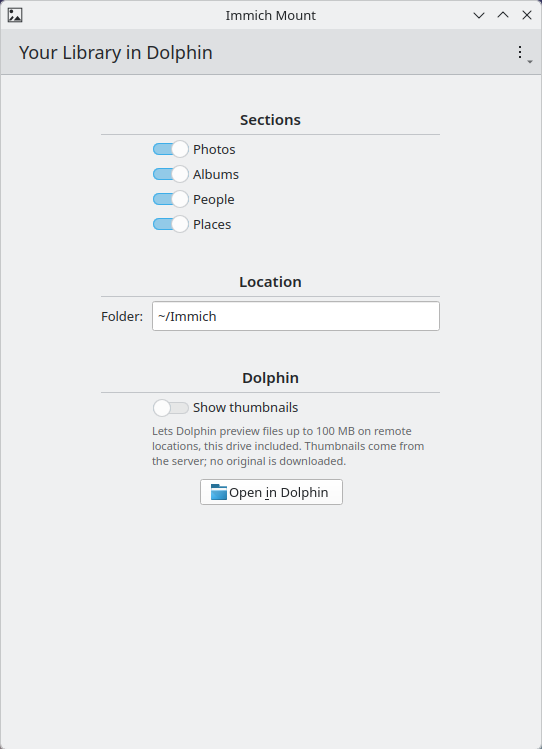
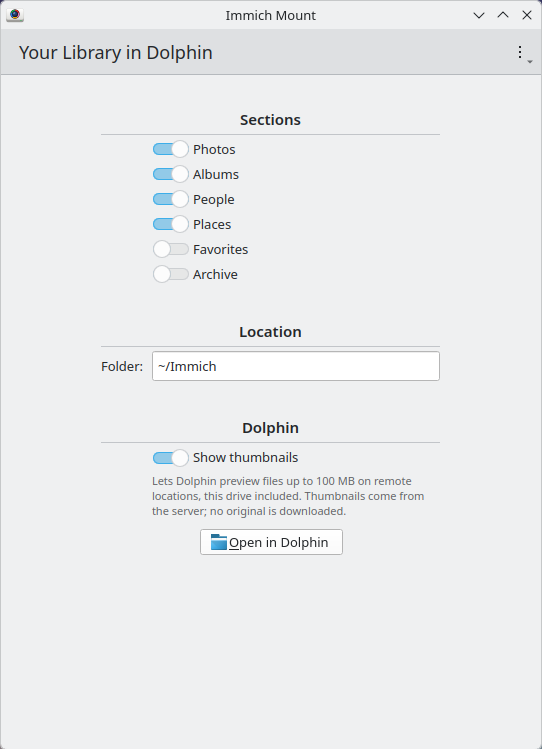
docs: the Linux screenshots retaken on 2.21.0, and the tray's menu among them
Files, Dolphin and both apps as 2.21.0 has them: the drive named Immich Mount in the sidebar and in Places, the
Upload folder, the status page's Unmount, the setup's Favorites and Archive, the preferences' Drive group, and the
tray's menu in GNOME's top bar, which the README and the download page now show. Taken in the lab VMs against the
seeded server, through each app's own first run.

The lab learned on the way: oidc.sh configures Immich from inside its container, so it works in NAT mode; act.py
presses only what can be pressed, as GTK's labels carry actions too; and the desktop VM skill gives each picture's
window placement and box, and the first-run procedure.

diff --git a/site/index.html b/site/index.html
@@ -74,12 +74,13 @@
     </section>
 
     <div class="gallery">
-      <figure class="shot"><img src="screenshots/files-root.png" alt="Immich in the Files sidebar, with Albums, People, Photos and Places" loading="lazy"></figure>
+      <figure class="shot"><img src="screenshots/files-root.png" alt="Immich Mount in the Files sidebar, with Albums, People, Photos, Places and Upload" loading="lazy"></figure>
       <figure class="shot"><img src="screenshots/files-places.png" alt="A city under Places, with photos named by when they were taken" loading="lazy"></figure>
-      <figure class="shot"><img src="screenshots/dolphin-album.png" alt="An Immich album in Dolphin, with thumbnails from the server and Immich in Places" loading="lazy"></figure>
+      <figure class="shot"><img src="screenshots/dolphin-album.png" alt="An Immich album in Dolphin, with thumbnails from the server and Immich Mount in Places" loading="lazy"></figure>
       <figure class="shot"><img src="screenshots/app-sign-in.png" alt="Sign-in methods the server offers: single sign-on, email and password, API key" loading="lazy"></figure>
       <figure class="shot"><img src="screenshots/app-status.png" alt="The app's status page: the library is in Files" loading="lazy"></figure>
       <figure class="shot"><img src="screenshots/kde-status.png" alt="The KDE app's status page: the library is in Dolphin" loading="lazy"></figure>
+      <figure class="shot"><img src="screenshots/gnome-tray.png" alt="The tray icon's menu in GNOME's top bar: connected to the server, its version and the account, then Open in Files and Open Immich Mount" loading="lazy"></figure>
     </div>
 
     <section>

diff --git a/lab/plasma-vm/act.py b/lab/plasma-vm/act.py
@@ -86,12 +86,25 @@ def found(app_name, name):
     return node
 
 
-def has_actions(node):
+PRESSES = ("Press", "Toggle", "press", "toggle", "click")
+
+
+def action_names(node):
     try:
         action = node.get_action_iface()
-        return action is not None and action.get_n_actions() > 0
+        if action is None:
+            return []
+        with warnings.catch_warnings():
+            warnings.simplefilter("ignore", DeprecationWarning)
+            return [Atspi.Action.get_action_name(action, index) for index in range(action.get_n_actions())]
     except GLib.Error:
-        return False
+        return []
+
+
+def has_actions(node):
+    """Whether it can be pressed: GTK's labels have actions too (copy, select all), so a page's title named like
+    its button ("Sign In") is passed over."""
+    return any(name in PRESSES for name in action_names(node))
 
 
 def press(node):
@@ -103,7 +116,7 @@ def press(node):
     with warnings.catch_warnings():
         warnings.simplefilter("ignore", DeprecationWarning)
         names = [Atspi.Action.get_action_name(action, index) for index in range(action.get_n_actions())]
-    for wanted in ("Press", "Toggle", "press", "toggle", "click"):
+    for wanted in PRESSES:
         if wanted in names:
             action.do_action(names.index(wanted))
             return

diff --git a/.claude/skills/lab-desktop-vm/SKILL.md b/.claude/skills/lab-desktop-vm/SKILL.md
@@ -133,15 +133,31 @@ JPEGs: `fixtures`, then `open <name> <dir>` (cold cache, settle, screenshot, who
 `docs/screenshots/` holds the README's pictures, taken in these VMs against the seeded server (NAT mode, so the
 apps show `http://ind-immich-srv.incus:2283`), so every photo in them is a credited fixture. Retake one at the same
 size, check it for anything that is not test data, and keep the file name so the README needs no change. Take the
-whole session with `shot.sh` and cut the window out with `lab/crop-png.py`; in a fresh VM the windows open where
-these boxes expect them:
+whole session with `shot.sh` and cut the window out with `lab/crop-png.py`. On GNOME, put the window in place first
+with the shell's Eval, since the top bar moves where windows open (`gdbus call --session --dest org.gnome.Shell
+--object-path /org/gnome/Shell --method org.gnome.Shell.Eval "global.display.focus_window.move_resize_frame(false,
+x, y, width, height)"`); on Plasma they open where these boxes expect them:
 
-| Picture | Box (x0 y0 x1 y1) |
-|---|---|
-| GNOME app, `app-connect`, `app-sign-in`, `app-setup` (with 10 px of desktop) | 350 56 930 776 |
-| GNOME app, `app-status` (the window only) | 360 66 920 766 |
-| KDE app, `kde-*` | 449 52 991 801 |
-| Dolphin, `dolphin-album` | 340 138 1101 717 |
+| Picture | Window placed at (x y width height) | Box (x0 y0 x1 y1) |
+|---|---|---|
+| Files, `files-*` | 10 42 1260 748 | 0 32 1280 800 |
+| GNOME app, `app-connect`, `app-sign-in`, `app-setup`, `app-preferences` (with 10 px of desktop) | 360 66 560 700 | 350 56 930 776 |
+| GNOME app, `app-status` (the window only) | 360 66 560 700 | 360 66 920 766 |
+| The tray's menu in GNOME's top bar, `gnome-tray` | | 840 0 1280 280 |
+| KDE app, `kde-*` | | 449 52 991 801 |
+| Dolphin, `dolphin-album` | | 340 138 1101 717 |
+
+The apps' first run gives the sign-in and setup pictures, and the keyring the status page names:
+- **Signed out:** `immich-mount logout`, and `immich-mount configure unset server.url` for an empty address field.
+- **GNOME:** create the login keyring without its prompt, `printf <password> | gnome-keyring-daemon --replace
+  --unlock --components=secrets`, in the session. `act.py` (pushed from `lab/plasma-vm/`) fills GTK 4's fields by
+  name and presses its plain buttons; a row that acts as a button ("Sign In") has no action on the bus, so click
+  it with `exp/input.sh`, once (a second click lands on the next page). Typing with `exp/input.sh` does not reach
+  the app's fields.
+- **Plasma:** `act.py` all the way, KWallet's wizard included; its two password fields are `set-nth ksecretd
+  'password text' 1` and `2` (counted from 1). Finishing the setup with Open in Dolphin puts the drive in Places.
+- **Single sign-on** shows on the sign-in pages once `lab/immich-server/oidc.sh` has run; it restarts Immich, so the
+  daemon may tell of a moment offline, a banner GNOME keeps until someone is active: dismiss it before a picture.
 
 ## Recording the result
 

diff --git a/README.md b/README.md
@@ -48,7 +48,7 @@ without downloading the library first.
 ```
 
 <table><tr>
-<td><img src="docs/screenshots/files-root.png" alt="Immich in the Files sidebar, with Albums, People, Photos and Places"></td>
+<td><img src="docs/screenshots/files-root.png" alt="Immich Mount in the Files sidebar, with Albums, People, Photos, Places and Upload"></td>
 <td><img src="docs/screenshots/files-places.png" alt="A city under Places, with photos named by when they were taken"></td>
 </tr></table>
 
@@ -111,18 +111,24 @@ at every login.
 <td><img src="docs/screenshots/app-connect.png" alt="Immich Mount asking for the server address"></td>
 <td><img src="docs/screenshots/app-sign-in.png" alt="Sign-in methods offered by the server: single sign-on, email and password, API key"></td>
 <td><img src="docs/screenshots/app-setup.png" alt="First run: which sections the drive shows, and where it goes"></td>
-<td><img src="docs/screenshots/app-status.png" alt="The status page: the library is in Files, with Open in Files"></td>
+<td><img src="docs/screenshots/app-status.png" alt="The status page: the library is in Files, with Open in Files and Unmount"></td>
 </tr></table>
+
+While it is mounted, its icon sits in the tray: in KDE Plasma's system tray, and in GNOME's top bar where the
+AppIndicator extension is on (Ubuntu and Bazzite have it). One click shows how it is connected, as the Mac's menu bar
+item does:
+
+<img src="docs/screenshots/gnome-tray.png" width="440" alt="The tray icon's menu in GNOME's top bar: connected to the server, its version and the account, then Open in Files and Open Immich Mount">
 
 On KDE Plasma, the same app opens in Kirigami, puts the mount in Dolphin's Places, and offers to let Dolphin show
 the thumbnails:
 
-![An Immich album in Dolphin, with thumbnails from the server and Immich in Places](docs/screenshots/dolphin-album.png)
+![An Immich album in Dolphin, with thumbnails from the server and Immich Mount in Places](docs/screenshots/dolphin-album.png)
 
 <table><tr>
 <td><img src="docs/screenshots/kde-sign-in.png" alt="The KDE app's sign-in page: single sign-on, email and password, API key"></td>
 <td><img src="docs/screenshots/kde-setup.png" alt="The KDE app's first run: sections, location, and Show thumbnails for Dolphin"></td>
-<td><img src="docs/screenshots/kde-status.png" alt="The KDE app's status page: the library is in Dolphin"></td>
+<td><img src="docs/screenshots/kde-status.png" alt="The KDE app's status page: the library is in Dolphin, with Unmount and Disconnect"></td>
 </tr></table>
 
 **From a terminal,** or on a machine without a desktop:

diff --git a/DESIGN.md b/DESIGN.md
@@ -114,7 +114,7 @@ Measured contrast on the website (WCAG AA asks 4.5:1 for text):
   Erebus").
 - **Linux** in the lab VMs, cut to the boxes the `lab-desktop-vm` skill lists. **The Mac** on the maintainer's Mac
   against the lab server, each window taken with ⌘⇧4 and Space, which keeps macOS's own shadow.
-- **Names** say what they show: `files-album.png`, `kde-status.png`, and `mac-` for the Mac's (`mac-finder.png`,
+- **Names** say what they show: `files-album.png`, `kde-status.png`, `gnome-tray.png`, and `mac-` for the Mac's (`mac-finder.png`,
   `mac-menu.png`, `mac-sign-in.png`, `mac-settings.png`).
 - **Retaken** when the interface they show changes; keep the file name, so the README and the page need no change.
 
